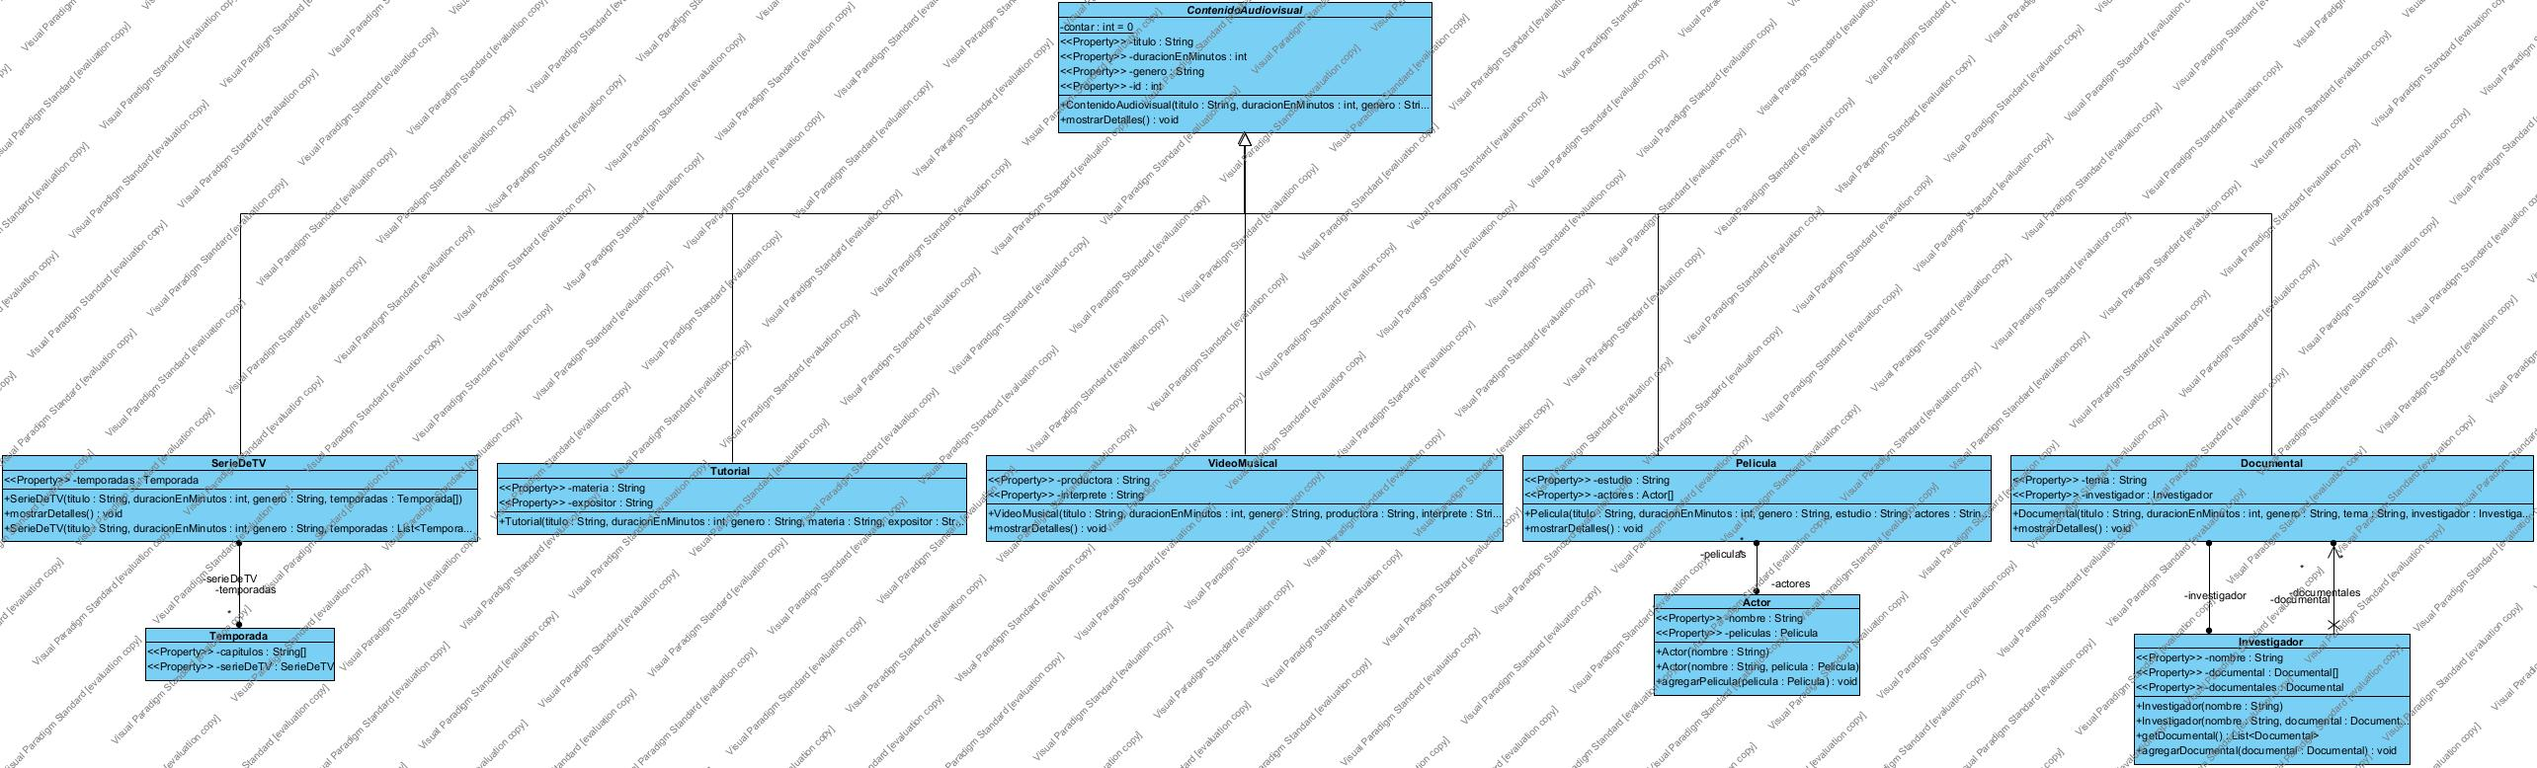
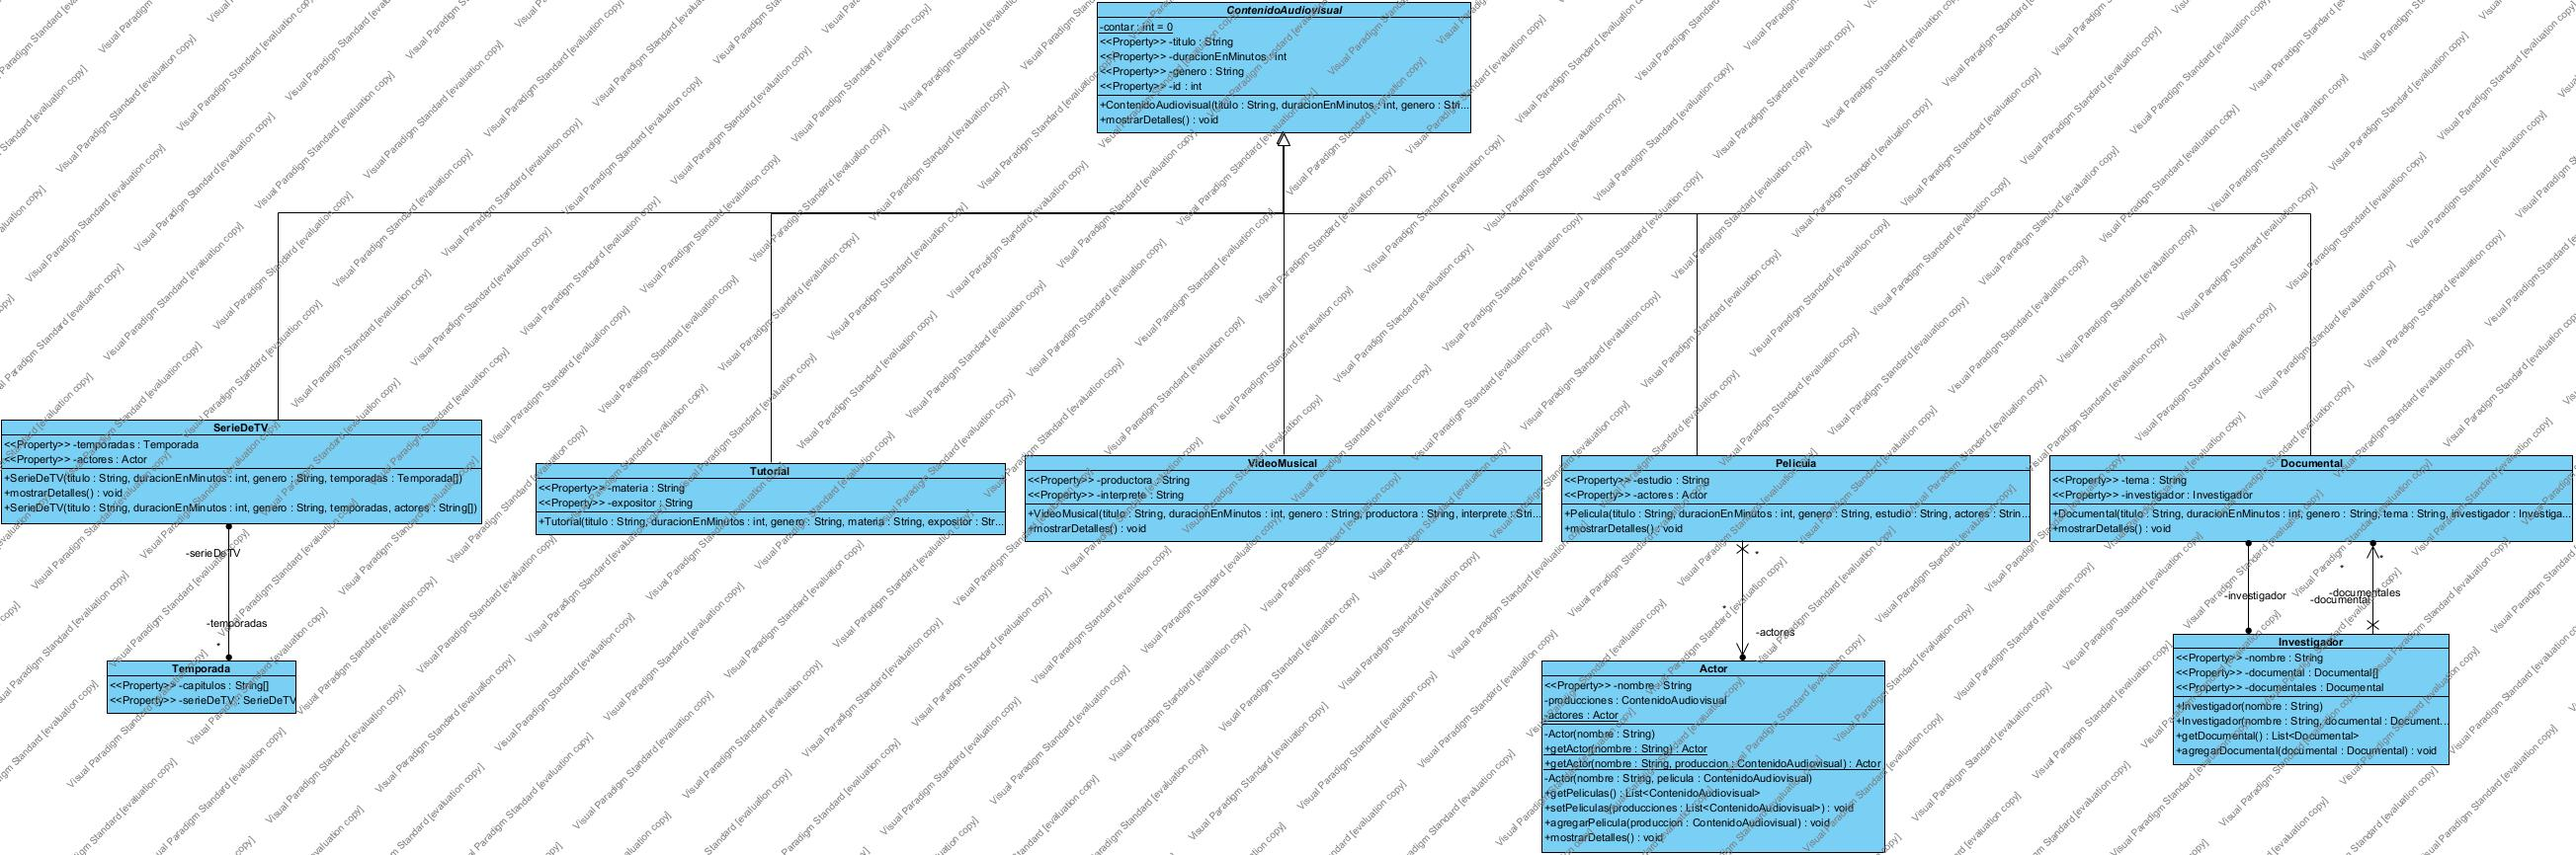
Se agrega codigo al main adcional se completa los diagramas

diff --git a/src/poo/PruebaAudioVisual.java b/src/poo/PruebaAudioVisual.java
@@ -8,15 +8,137 @@ public class PruebaAudioVisual {
         System.out.println("Hello from Eclipse!");
 
         // Crear instancias de las subclases
-        ContenidoAudiovisual[] contenidos = new ContenidoAudiovisual[3];
-        String[] nombreActores = {"Juan", "María", "Pedro", "Ana"};
-        contenidos[0] = new Pelicula("Avatar", 125, "Accion", "20th Century Studios", nombreActores);
-        contenidos[1] = new SerieDeTV("Game of Thrones", 60, "Fantasy",  new ArrayList<Temporada>());
-        contenidos[2] = new Documental("Cosmos", 45, "Science", "Astronomy", new Investigador());
+        ContenidoAudiovisual[] contenidos = new ContenidoAudiovisual[10];
+        String[] actoresAvatar = {
+        	    "Sam Worthington",
+        	    "Zoe Saldaña",
+        	    "Sigourney Weaver",
+        	    "Stephen Lang",
+        	    "Giovanni Ribisi",
+        	    "Michelle Rodriguez",
+        	    "Joel David Moore",
+        	    "CCH Pounder",
+        	    "Wes Studi",
+        	    "Laz Alonso",
+        	    "Kate Winslet",
+        	    "Cliff Curtis",
+        	    "Britain Dalton",
+        	    "Jamie Flatters",
+        	    "Trinity Jo-Li Bliss",
+        	    "Jack Champion"
+        	};
+        
+        String[] actoresGameOfThrones = {
+        	    "Emilia Clarke",
+        	    "Kit Harington",
+        	    "Peter Dinklage",
+        	    "Lena Headey",
+        	    "Nikolaj Coster-Waldau",
+        	    "Sophie Turner",
+        	    "Maisie Williams",
+        	    "Sean Bean",
+        	    "Isaac Hempstead Wright",
+        	    "Richard Madden",
+        	    "Iain Glen",
+        	    "Alfie Allen",
+        	    "Conleth Hill",
+        	    "John Bradley",
+        	    "Liam Cunningham",
+        	    "Gwendoline Christie",
+        	    "Rory McCann",
+        	    "Natalie Dormer",
+        	    "Charles Dance",
+        	    "Aidan Gillen"
+        	};
+     
+        String[] actoresTheOffice = {
+            "Steve Carell",
+            "John Krasinski",
+            "Rainn Wilson",
+            "Jenna Fischer",
+            "Mindy Kaling",
+            "BJ Novak",
+            "Ed Helms",
+            "Ellie Kemper",
+            "Craig Robinson",
+            "James Spader"
+        };
 
+        String[] actores40YearOldVirgin = {
+            "Steve Carell",
+            "Paul Rudd",
+            "Seth Rogen",
+            "Catherine Keener",
+            "Elizabeth Banks",
+            "Jane Lynch",
+            "Romany Malco",
+            "Mindy Kaling", 
+            "Leslie Mann"
+        };
+
+        String[] actoresParksAndRec = {
+            "Amy Poehler",
+            "Nick Offerman",
+            "Aubrey Plaza",
+            "Chris Pratt",
+            "Rashida Jones",
+            "Rob Lowe",
+            "Adam Scott",
+            "Retta",
+            "Aziz Ansari",
+            "Ben Schwartz"
+        };
+
+        String[] actoresGuardiansOfTheGalaxy = {
+            "Chris Pratt",
+            "Zoe Saldaña",
+            "Dave Bautista",
+            "Vin Diesel",
+            "Bradley Cooper",
+            "Michael Rooker",
+            "Karen Gillan",
+            "Lee Pace",
+            "Glenn Close"
+        };
+
+        String[] actoresBreakingBad = {
+            "Bryan Cranston",
+            "Aaron Paul",
+            "Anna Gunn",
+            "Dean Norris",
+            "Betsy Brandt",
+            "RJ Mitte",
+            "Bob Odenkirk",
+            "Jonathan Banks",
+            "Giancarlo Esposito",
+            "Michael McKean"
+        };
+        
+        contenidos[0] = new Pelicula("Avatar", 125, "Accion", "20th Century Studios", actoresAvatar);
+        contenidos[1] = new SerieDeTV("Game of Thrones", 60, "Fantasy",  new ArrayList<Temporada>(), actoresGameOfThrones);
+        contenidos[2] = new Documental("Cosmos", 45, "Science", "Astronomy", new Investigador("Carl Sagan"));
+        contenidos[3] = new VideoMusical("Back in Black", 4, "Rock", "Atlantic Records", "AC/DC");
+        contenidos[4] = new Tutorial("Arreglar Computadora", 30, "Educativo", "Reparación de computadoras", "Juan Pérez");
+        contenidos[5] = new SerieDeTV("The Office", 22, "Comedy", new ArrayList<Temporada>(), actoresTheOffice);
+        contenidos[6] = new Pelicula("The 40-Year-Old Virgin", 116, "Comedy", "Universal Pictures", actores40YearOldVirgin);
+        contenidos[7] = new SerieDeTV("Parks and Recreation", 22, "Comedy", new ArrayList<Temporada>(), actoresParksAndRec);
+        contenidos[8] = new Pelicula("Guardians of the Galaxy", 121, "Sci-Fi", "Marvel Studios", actoresGuardiansOfTheGalaxy);
+        contenidos[9] = new SerieDeTV("Breaking Bad", 47, "Drama", new ArrayList<Temporada>(), actoresBreakingBad);
+
+        
         // Mostrar los detalles de cada contenido audiovisual
         for (ContenidoAudiovisual contenido : contenidos) {
             contenido.mostrarDetalles();
         }
+        
+        // Mostrar del actor Steve Carell
+        Actor.getActor("Steve Carell").mostrarDetalles();
+        
+        // Mostrar del actor Zoe Saldaña
+        Actor.getActor("Zoe Saldaña").mostrarDetalles();
+        
+        // Mostrar del actor Chris Pratt
+        Actor.getActor("Chris Pratt").mostrarDetalles();
+       
     }
 }

diff --git a/src/uni1a/SerieDeTV.java b/src/uni1a/SerieDeTV.java
@@ -38,6 +38,10 @@ public class SerieDeTV extends ContenidoAudiovisual {
         System.out.println("Detalles de la Serie de TV:");
         super.mostrarDetalles();
         System.out.println("Temporadas: " + this.temporadas);
+        System.out.println("Actores: ");
+		for (Actor iterador : actores) {
+			System.out.println("\t -" + iterador.getNombre());
+		}
         System.out.println();
     }
 

diff --git a/src/uni1a/Pelicula.java b/src/uni1a/Pelicula.java
@@ -38,6 +38,10 @@ public class Pelicula extends ContenidoAudiovisual {
 		System.out.println("Detalles de la película:");
 		super.mostrarDetalles();
 		System.out.println("Estudio: " + estudio);
+		System.out.println("Actores: ");
+		for (Actor iterador : actores) {
+			System.out.println("\t -" + iterador.getNombre());
+		}
 		System.out.println();
 	}
 

diff --git a/src/uni1a/Actor.java b/src/uni1a/Actor.java
@@ -74,6 +74,7 @@ public class Actor {
 	public void mostrarDetalles() {
         System.out.println("Detalles del actor");
         System.out.println("nombre: " + this.nombre);
+        System.out.println("Producciones Audio Visuales: ");
         for (ContenidoAudiovisual iterador : this.producciones) {
         	iterador.mostrarDetalles();
         }

diff --git a/README.md b/README.md
@@ -1,20 +1,54 @@
-# poo_unidad1
-- Se crea el proyecto inicial con las siguientes entidades
-	Actor.java
-	ContenidoAudiovisual.java
-	Documental.java
-	Investigador.java
-	Pelicula.java
-	SerieDeTV.java
-	Temporada.java
-	
-- Se cambia el metodo abstracto mostrarDetalles de la clase ContenidoAudiovisual.java para que pueda imprimir sus propiedades
-de esa forma evitar duplicidad de codigo en las clases en la cual se hereda
+# Proyectos Audiovisuales
 
-- Se agregan las siguientes clases para tener mas variedad de contenido Audio Visual
-	Tutorial.java (En esta clase se va a manejar video tutoriales en principio de temas informaticos)
-	VideoMusical.java (En esta clase se va a manejar los videos musicales que se incluyan en nuestro contenido audio visual)
-	
-- Se cambia la clase Actor.java para que contenga una creación basada en una fabrica de Actores para que a un mismo actor se le puedan agregar mas peliculas
+## Propósito del Proyecto
 
-- Se cambia la clase Actor.java para que pueda soportar ContenidoAudiovisual en vez de solo Pelicula de esa forma poder tener Pelicula y SerieDeTV compartiendo Actores
+Los proyectos audiovisuales tienen como objetivo la creación y difusión de contenido multimedia que combina elementos visuales y auditivos para informar, educar, entretener o inspirar a la audiencia. Estos proyectos pueden incluir producciones como películas, series de televisión, documentales, videos musicales, tutoriales, cortometrajes y más.
+
+
+# Guía para importar un proyecto de Java desde Git
+
+Este documento proporciona una guía sencilla para clonar e importar un proyecto de Java desde un repositorio de Git a tu entorno de desarrollo (por ejemplo, Eclipse o IntelliJ IDEA).
+
+## Requisitos previos
+
+- [Git](https://git-scm.com/) instalado en tu máquina.
+- Un entorno de desarrollo integrado (IDE) como [Eclipse](https://www.eclipse.org/) o [IntelliJ IDEA](https://www.jetbrains.com/idea/).
+- Java Development Kit (JDK) configurado.
+
+## Pasos para clonar el repositorio
+
+1. **Abrir la terminal o línea de comandos**:
+   - Ve al directorio donde quieras clonar el proyecto.
+
+2. **Clonar el repositorio**:
+   - Ejecuta el siguiente comando en tu terminal reemplazando `URL_DEL_REPOSITORIO` con la URL del repositorio de Git:
+     bash
+     git clone URL_DEL_REPOSITORIO
+     
+
+3. **Entrar al directorio del proyecto**:
+   bash
+   cd nombre-del-proyecto
+
+
+## Historial del Proyecto
+
+- **Se crea el proyecto inicial** con las siguientes entidades:
+  - `Actor.java`
+  - `ContenidoAudiovisual.java`
+  - `Documental.java`
+  - `Investigador.java`
+  - `Pelicula.java`
+  - `SerieDeTV.java`
+  - `Temporada.java`
+  
+- **Modificación de `ContenidoAudiovisual.java`**:
+  - Se cambia el método abstracto `mostrarDetalles` para que pueda imprimir las propiedades del contenido audiovisual, evitando así la duplicidad de código en las clases que heredan de ella.
+
+- **Adición de nuevas clases**:
+  - `Tutorial.java`: Maneja videos tutoriales, inicialmente enfocados en temas informáticos.
+  - `VideoMusical.java`: Maneja los videos musicales incluidos en nuestro contenido audiovisual.
+
+- **Actualización de `Actor.java`**:
+  - Se cambia para incluir una fábrica de actores, lo que permite agregar más películas al mismo actor de forma más sencilla.
+  - Se modifica para que pueda soportar `ContenidoAudiovisual` en lugar de solo `Pelicula`, permitiendo que un actor participe tanto en películas como en series de TV.
